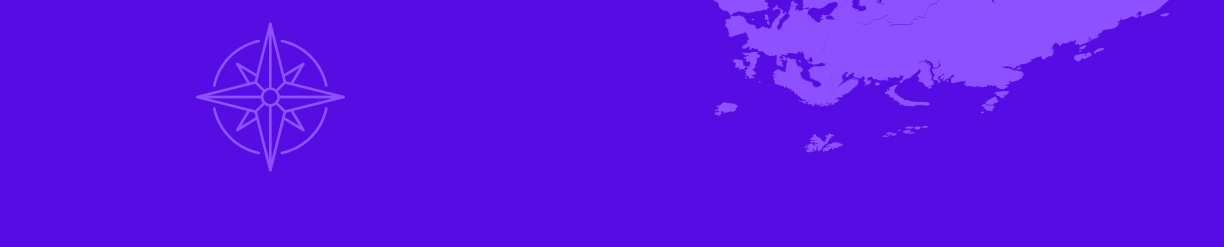
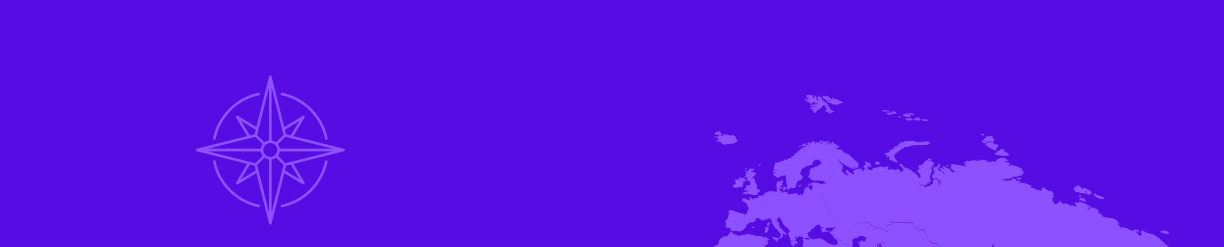
06.11. second commit

diff --git a/index-kuoni.html b/index-kuoni.html
@@ -818,14 +818,14 @@ Lorem ipsum dolor sit amet, consectetur adipiscing elit. In placerat gravida mas
                         <p>Discover the highlights of India’s capital city on a full day tour of Old and New Delhi. In Old Delhi, visit the Jama Masjid Mosque, the largest mosque in India built by the fifth Mughal Emperor Shah Jahan whose other architectural feats include the legendary Taj Mahal. Wander through the narrow and busy lanes of Chandni Chowk and hop on a rickshaw for a ride through the bazaar. Drive past the impressive Red Fort, a UNESCO World Heritage Site and the main seat of the Mughal Empire for 200 years. In the afternoon, explore New Delhi, including the Presidential Palace, India Gate and Humayun’s tomb. Your final stop is Qutab Minar where you can witness the illumination of its tower, which was built in the 12th century and is a prototype of all minars (towers) in India. Overnight at The Suryaa (or similar).
                         </p>
                             <div class="day-image d-flex">
-                                <div class="col-6">
+                                <div class="col-12 col-md-6 ">
                                 <div class="image ">
                                     <img src="https://cdn.kuoni.co.uk/media/exports/KuoniUK/ImageGalleryLightboxLarge/656880_ImageGalleryLightboxLarge.jpg" width="790" height="440" alt="">
                                 </div>
                                 </div>
 <!-- things-to-do-carousel-start -->
 
-   <div class="things-to-do-carousel col-6">               
+   <div class="things-to-do-carousel col-12 col-md-6">               
                            
                                 <h3 style="position: relative; width: 100%;">Things to do in Day 2</h3>
 
@@ -925,7 +925,7 @@ Lorem ipsum dolor sit amet, consectetur adipiscing elit. In placerat gravida mas
                         <div class="tg-cta-wrap include-bg" data-background="assets/img/cta/banner.jpg">
                             <div class="row align-items-end">
                                 <div class="col-lg-3 d-none d-lg-block">
-                                    <div class="tg-cta-thumb pt-50 ml-60">
+                                    <div class="tg-cta-thumb pt-20 pb-30 ml-10">
                                         <img src="assets/img/cta/phone.png" alt="">
                                     </div>
                                 </div>
@@ -958,15 +958,15 @@ Lorem ipsum dolor sit amet, consectetur adipiscing elit. In placerat gravida mas
            <div class="container">
                 <div class="tg-footer-top mb-40">
                     <div class="row">
-                        <div class="col-xl-3 col-lg-3 col-md-6 col-sm-6">
+                        <div class="col-xl-4 col-lg-4 col-md-8 col-sm-8">
                             <div class="tg-footer-widget mb-40">
                                 <div class="tg-footer-logo mb-20">
                                     <a href="index.html"><img src="assets/img/logo/logo-white.png" alt=""></a>
                                 </div>
-                                <p class="mb-20">Pharetra maecenas felis vestibulum convallis mollis nullam congue sit.d rivers of Finland Quebec.</p>
+                                <p class="mb-20">Екзотични екскурзии и почивки</p>
                                 <div class="tg-footer-form mb-30">
                                     <form action="#">
-                                        <input type="email" placeholder="Enter your mail">
+                                        <input type="email" placeholder="Вашия имейл">
                                         <button class="tg-footer-form-btn" type="submit">
                                             <svg width="22" height="17" viewBox="0 0 22 17" fill="none" xmlns="http://www.w3.org/2000/svg">
                                                 <path d="M1.52514 8.47486H20.4749M20.4749 8.47486L13.5 1.5M20.4749 8.47486L13.5 15.4497" stroke="white" stroke-width="1.77778" stroke-linecap="round" stroke-linejoin="round" />
@@ -976,28 +976,26 @@ Lorem ipsum dolor sit amet, consectetur adipiscing elit. In placerat gravida mas
                                 </div>
                                 <div class="tg-footer-social">
                                     <a href="#"><i class="fa-brands fa-facebook-f"></i></a>
-                                    <a href="#"><i class="fa-brands fa-twitter"></i></a>
                                     <a href="#"><i class="fa-brands fa-instagram"></i></a>
-                                    <a href="#"><i class="fa-brands fa-pinterest-p"></i></a>
                                     <a href="#"><i class="fa-brands fa-youtube"></i></a>
                                 </div>
                             </div>
                         </div>
-                        <div class="col-xl-3 col-lg-3 col-md-6 col-sm-6">
+                        <div class="col-xl-3 col-lg-3 col-md-5 col-sm-5">
                             <div class="tg-footer-widget tg-footer-link ml-80 mb-40">
-                                <h3 class="tg-footer-widget-title mb-25">Quick Links</h3>
+                                <h3 class="tg-footer-widget-title mb-25">Дестинации</h3>
                                 <ul>
-                                    <li><a href="index.html">Home</a></li>
-                                    <li><a href="about.html">About Us</a></li>
-                                    <li><a href="#">Services</a></li>
-                                    <li><a href="#">Tour Guide</a></li>
-                                    <li><a href="contact.html"> Contact Us</a></li>
+                                    <li><a href="index.html">Индия</a></li>
+                                    <li><a href="about.html">Япония</a></li>
+                                    <li><a href="#">Китай</a></li>
+                                    <li><a href="#">Камбоджа</a></li>
+                                    <li><a href="contact.html">Виетнам</a></li>
                                 </ul>
                             </div>
                         </div>
-                        <div class="col-xl-3 col-lg-3 col-md-6 col-sm-6">
+                        <div class="col-xl-5 col-lg-5 col-md-7 col-sm-7">
                             <div class="tg-footer-widget tg-footer-info mb-40">
-                                <h3 class="tg-footer-widget-title mb-25">Information</h3>
+                                <h3 class="tg-footer-widget-title mb-25">Контакти</h3>
                                 <ul>
                                     <li>
                                         <a class="d-flex" href="https://www.google.com/maps/@41.6758525,-86.2531698,18.17z">
@@ -1007,17 +1005,17 @@ Lorem ipsum dolor sit amet, consectetur adipiscing elit. In placerat gravida mas
                                                     <path d="M10.3346 12.9699C11.9301 12.9699 13.2235 11.6674 13.2235 10.0608C13.2235 8.45412 11.9301 7.15168 10.3346 7.15168C8.73915 7.15168 7.44575 8.45412 7.44575 10.0608C7.44575 11.6674 8.73915 12.9699 10.3346 12.9699Z" stroke="white" stroke-width="1.73333" stroke-linecap="round" stroke-linejoin="round" />
                                                 </svg>
                                             </span>
-                                            58 Street Commercial Road<br> Fratton, Australia
+                                            ул. Доспат 43, София, България
                                         </a>
-                                    </li>
+                                    </li><br />
                                     <li>
                                         <a class="d-flex" href="tel:+1238889999">
                                             <span class="mr-15">
                                                 <i class="fa-sharp text-white fa-solid fa-phone"></i>
                                             </span>
-                                            +123 888 9999
+                                            0887 220 661
                                         </a>
-                                    </li>
+                                    </li><br />
                                     <li class="d-flex">
                                         <span class="mr-15">
                                             <svg width="24" height="24" viewBox="0 0 24 24" fill="none" xmlns="http://www.w3.org/2000/svg">
@@ -1025,31 +1023,20 @@ Lorem ipsum dolor sit amet, consectetur adipiscing elit. In placerat gravida mas
                                             </svg>
                                         </span>
                                         <p class="mb-0">
-                                            Mon – Sat: 8 am – 5 pm,<br>
-                                            Sunday: <span class="text-white d-inline-block">CLOSED</span>
+                                            Победелник – Петък: 9:30 – 18:00<br>
+                                            Събота и Неделя: <span class="text-white d-inline-block">Почивни</span>
                                         </p>
                                     </li>
                                 </ul>
                             </div>
                         </div>
-                        <div class="col-xl-3 col-lg-3 col-md-6 col-sm-6">
-                            <div class="tg-footer-widget tg-footer-link mb-40">
-                                <h3 class="tg-footer-widget-title mb-25">Utility Pages</h3>
-                                <ul>
-                                    <li><a href="#">Style Guide</a></li>
-                                    <li><a href="#">Password Protected</a></li>
-                                    <li><a href="#">404 Error</a></li>
-                                    <li><a href="#">Changelog</a></li>
-                                    <li><a href="#">License</a></li>
-                                </ul>
-                            </div>
-                        </div>
+                      
                     </div>
                 </div>
             </div>
             <div class="tg-footer-copyright text-center">
                 <span>
-                    Copyright <a href="#">©Tourex</a> |  All Right Reserved
+                    <a href="#">Профи Турс © 2025</a> |  Всички права запазени
                 </span>
             </div>
         </div>

diff --git a/assets/scss/layout/_footer.scss b/assets/scss/layout/_footer.scss
@@ -11,13 +11,13 @@
         }
         & p{
             line-height: 24px;
-            text-transform: capitalize;
+   
             color: #acadb5;
             font-size: 15px;
         }
         &-title{
             font-size: 20px;
-            text-transform: capitalize;
+     
             color: var(--tg-common-white);
         }
     }
@@ -31,7 +31,7 @@
         & ul{
             & li{
                 & a{
-                    text-transform: capitalize;
+                  
                     color: #acadb5;
                     display: inline-block;
                     padding: 6px 0px;
@@ -49,7 +49,7 @@
         }
         & ul{
             & li{
-                text-transform: capitalize;
+  
                 color: #acadb5;
                 display: inline-block;
                 font-weight: 500;
@@ -124,7 +124,7 @@
         & span{
             font-weight: 500;
             font-size: 14px;
-            text-transform: capitalize;
+
             color: #7b7e88;
             display: inline-block;
             & a{

diff --git a/assets/css/index2.css b/assets/css/index2.css
@@ -7257,13 +7257,11 @@ textarea {
 }
 .tg-footer-widget p {
   line-height: 24px;
-  text-transform: capitalize;
   color: #acadb5;
   font-size: 15px;
 }
 .tg-footer-widget-title {
   font-size: 20px;
-  text-transform: capitalize;
   color: var(--tg-common-white);
 }
 @media only screen and (min-width: 992px) and (max-width: 1199px) {
@@ -7277,7 +7275,6 @@ textarea {
   }
 }
 .tg-footer-link ul li a {
-  text-transform: capitalize;
   color: #acadb5;
   display: inline-block;
   padding: 6px 0px;
@@ -7294,7 +7291,6 @@ textarea {
   }
 }
 .tg-footer-info ul li {
-  text-transform: capitalize;
   color: #acadb5;
   display: inline-block;
   font-weight: 500;
@@ -7370,7 +7366,6 @@ textarea {
 .tg-footer-copyright span {
   font-weight: 500;
   font-size: 14px;
-  text-transform: capitalize;
   color: #7b7e88;
   display: inline-block;
 }

diff --git a/assets/css/misha.css b/assets/css/misha.css
@@ -7,7 +7,6 @@
 }
 .scroll-track .days .day{
    position: relative; 
-   padding-bottom: 50px;
 }
 .scroll-track .days .day>h2:after {
     
@@ -50,4 +49,12 @@
 }
 .things-to-do-carousel .tg-testimonial-4-ratings img{
  padding-right: 20px;
+}
+.day-image .image{
+    margin-bottom: 40px;
+}
+@media only screen and (max-width: 768px) {
+    .day-image{
+        flex-direction: column;
+    }
 }
